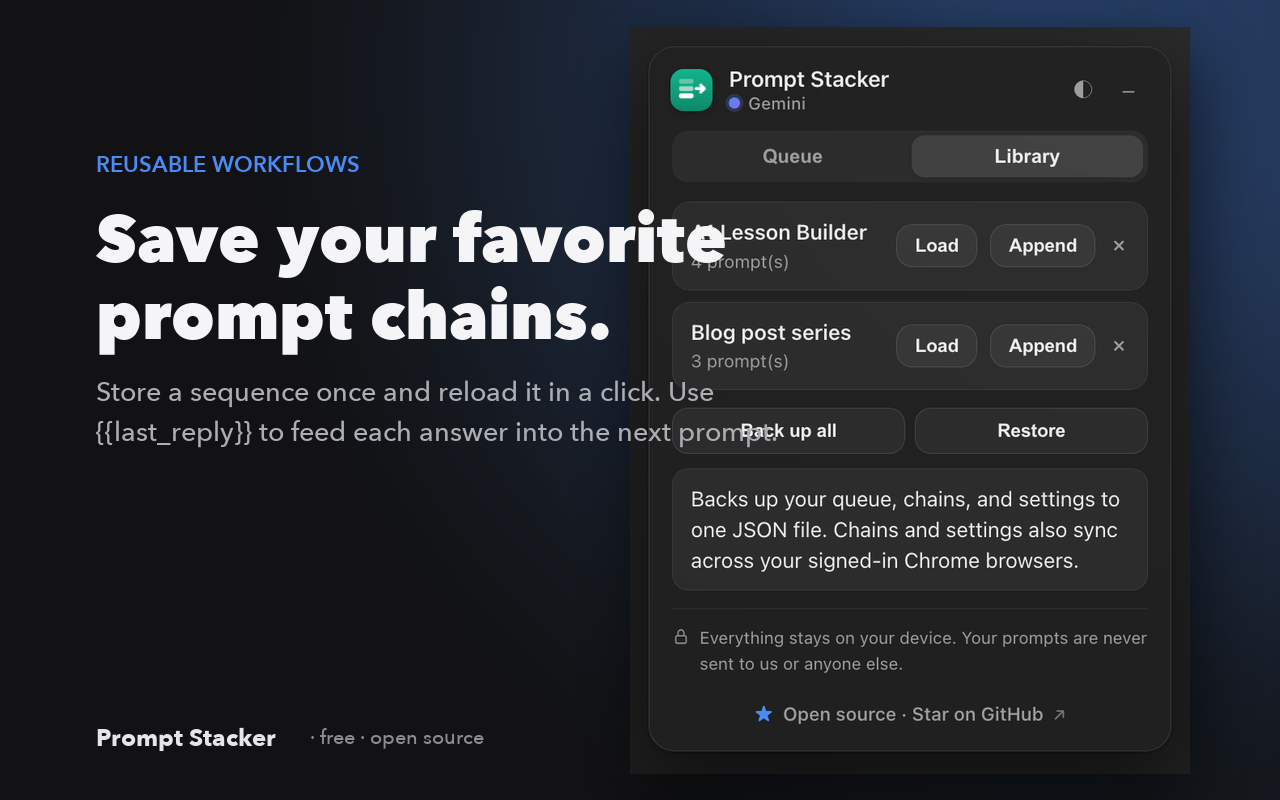
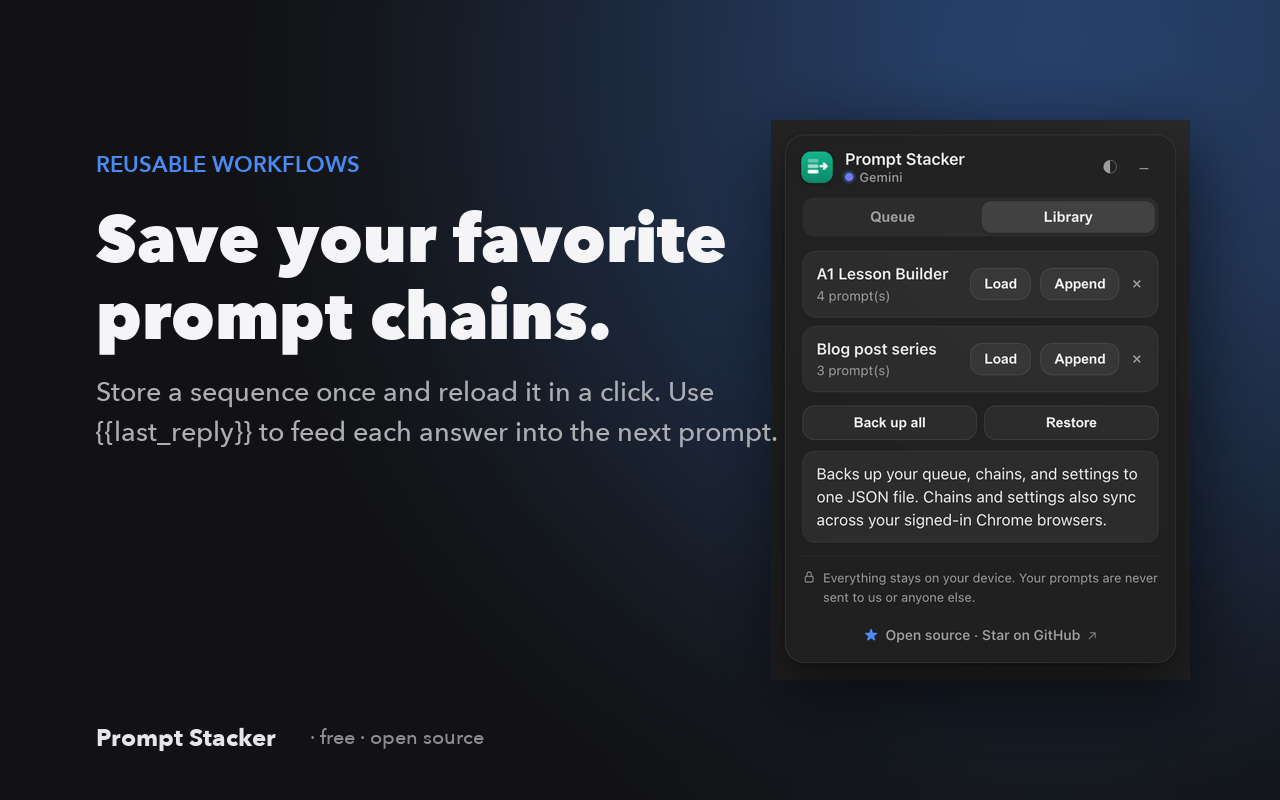
Fix store screenshot 4: shrink library panel so it no longer overlaps text

diff --git a/tools/store_assets.py b/tools/store_assets.py
@@ -114,7 +114,8 @@ slide("03-platforms.png", "queue-light.png", "#d97757",
 slide("04-chains.png", "library-dark.png", "#4b8bf5",
       "Reusable workflows",
       "Save your favorite\nprompt chains.",
-      "Store a sequence once and reload it in a click. Use\n{{last_reply}} to feed each answer into the next prompt.")
+      "Store a sequence once and reload it in a click. Use\n{{last_reply}} to feed each answer into the next prompt.",
+      box_h=560, max_w=430)
 
 slide("05-private.png", "pill-dark.png", "#19c37d",
       "Private by design",